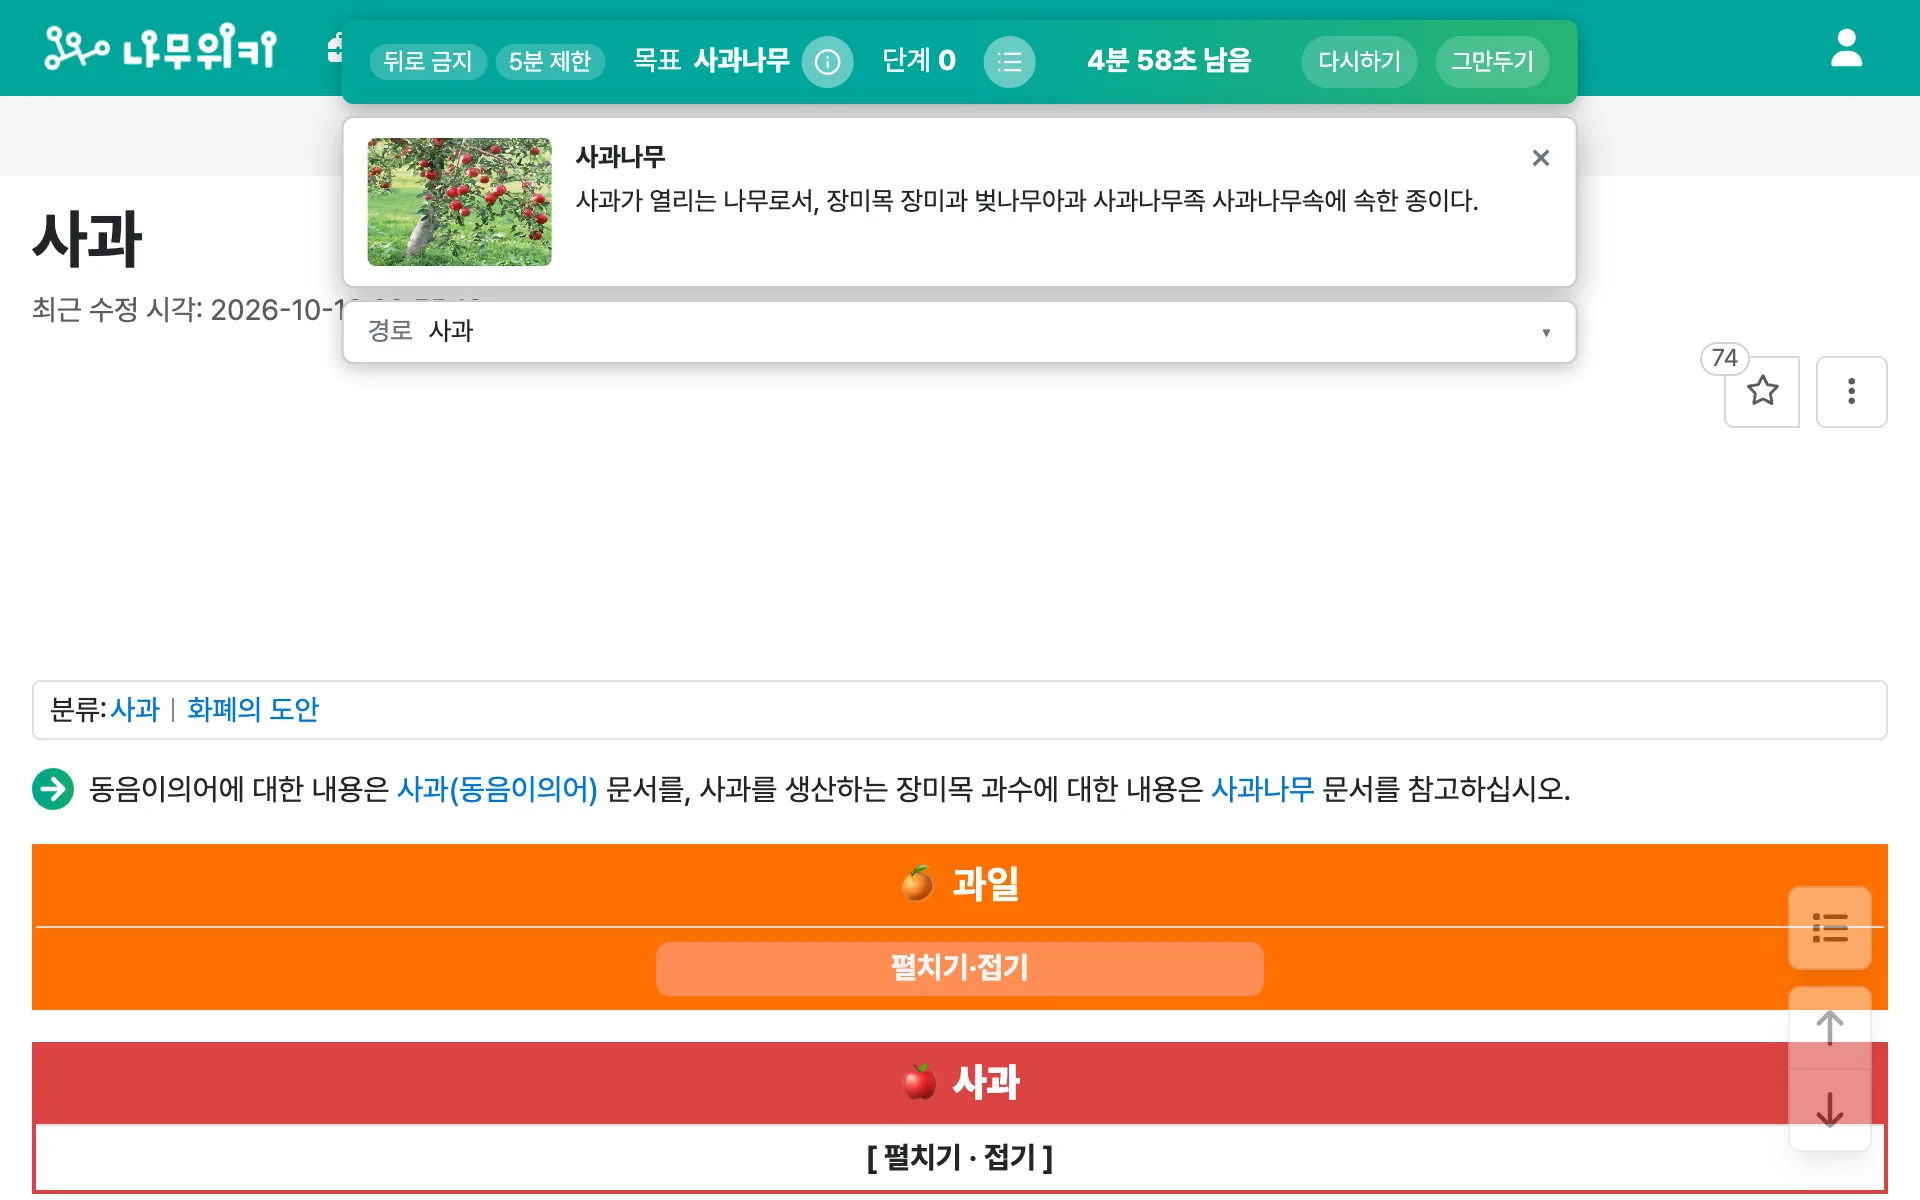
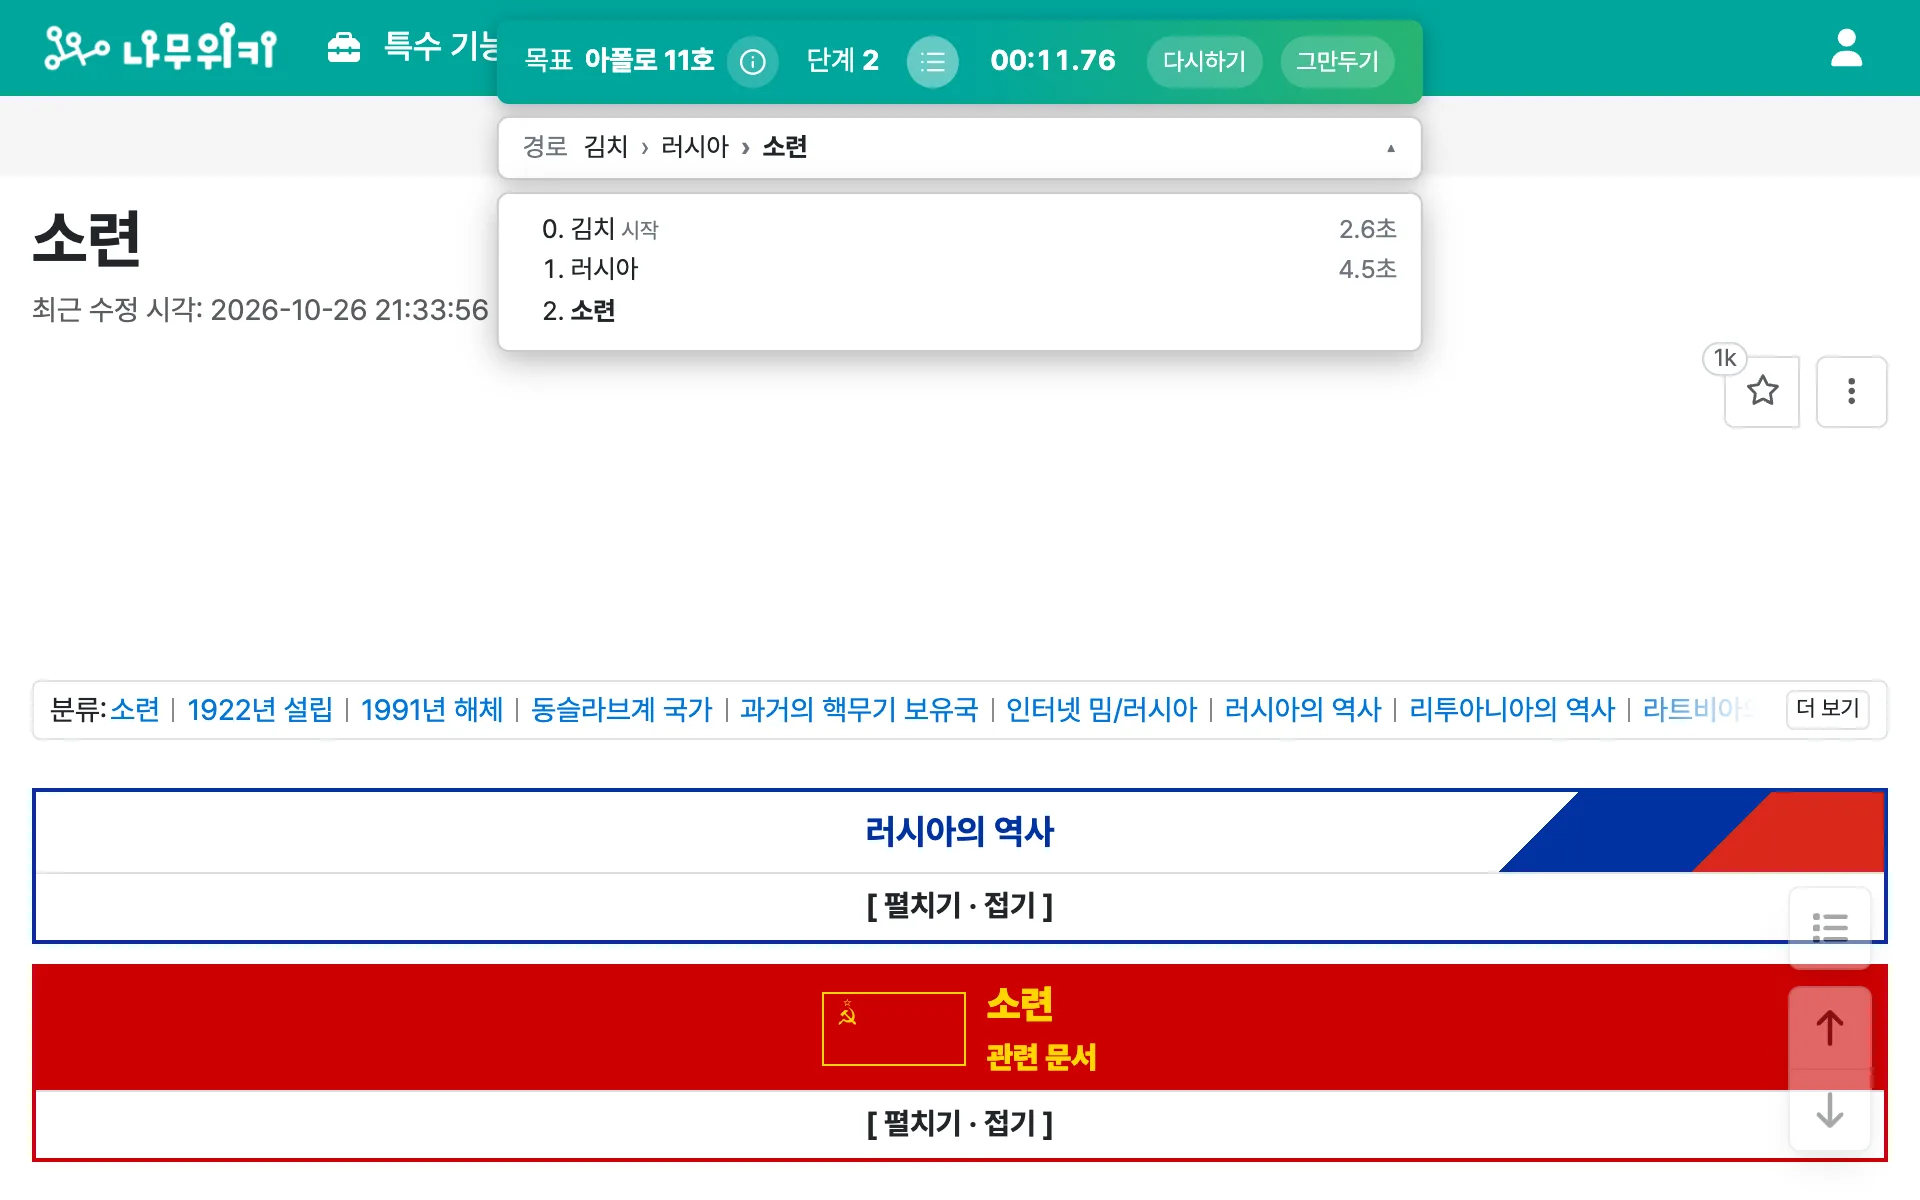
랜딩 사진을 규칙 없는 김치 → 아폴로 11호 판으로 다시 찍음
사진 주소에 ?v=2를 붙여 하루 캐시에 옛 사진이 남지 않게 함

diff --git a/server/public/index.html b/server/public/index.html
@@ -73,7 +73,7 @@
   @media (max-width: 720px) { header img { height: 24.4px; margin-left: -1.6px; } }
   @media (max-width: 520px) { article { padding: 16px; } th { white-space: normal; overflow-wrap: normal; } h1 { font-size: 30px; } .btn.primary { flex: 1; } }
 
-  /* 스크린샷: 다크 모드면 어두운 그림으로(picture). 게임 화면은 960x600으로 찍었다. */
+  /* 스크린샷: 다크 모드면 어두운 그림으로(picture). 게임 화면은 960x600으로 찍었다. 사진은 하루 캐시라 다시 찍으면 ?v=를 올린다(파일 이름을 바꾸면 요청 제한 목록도 고쳐야 한다). */
   figure { margin: 0 0 22.5px; }
   figure img { display: block; width: 100%; height: auto; border: 1px solid var(--cell); box-sizing: border-box; }
   figcaption { margin-top: 6px; font-size: 14.4px; color: var(--sub); }
@@ -99,7 +99,7 @@
 
   <div class="actions" style="margin-bottom: 22.5px"><a class="btn primary go" href="https://chromewebstore.google.com/detail/namutagi/fiadjnefijhjdngbdcaoahcdhkbnckfi">크롬 확장 추가하기</a></div>
 
-  <figure><picture><source media="(prefers-color-scheme: dark)" srcset="shots/play-dark.webp"><img src="shots/play-light.webp" width="960" height="600" alt="게임 중인 나무위키 화면. 위쪽 진행 막대에 목표, 단계, 남은 시간이 보이고 그 밑에 목표 문서 설명이 있다"></picture><figcaption>사과 문서에서 사과나무 문서로 가는 판이에요. 진행 막대에 목표, 단계, 시간이 보여요.</figcaption></figure>
+  <figure><picture><source media="(prefers-color-scheme: dark)" srcset="shots/play-dark.webp?v=2"><img src="shots/play-light.webp?v=2" width="960" height="600" alt="게임 중인 나무위키 화면. 위쪽 진행 막대에 목표, 단계, 시간이 보이고 그 밑에 지나온 경로가 펼쳐져 있다"></picture><figcaption>김치 문서에서 아폴로 11호 문서로 가는 판이에요.<br>진행 막대에 목표, 단계, 시간이 보이고, 지나온 경로도 펼쳐 볼 수 있어요.</figcaption></figure>
 
   <details class="toc" id="toc" open>
     <summary></summary>
@@ -120,8 +120,8 @@
       <tr><th>무작위</th><td>난이도만 고르면 시작과 목표를 대신 정해 줘요.</td></tr>
     </table>
     <div class="pops">
-      <figure><picture><source media="(prefers-color-scheme: dark)" srcset="shots/popup-today-dark.webp"><img src="shots/popup-today-light.webp" loading="lazy" alt="팝업의 오늘의 문제 탭"></picture><figcaption>오늘의 문제</figcaption></figure>
-      <figure><picture><source media="(prefers-color-scheme: dark)" srcset="shots/popup-custom-dark.webp"><img src="shots/popup-custom-light.webp" loading="lazy" alt="팝업의 직접 출제 탭"></picture><figcaption>직접 출제</figcaption></figure>
+      <figure><picture><source media="(prefers-color-scheme: dark)" srcset="shots/popup-today-dark.webp?v=2"><img src="shots/popup-today-light.webp?v=2" loading="lazy" alt="팝업의 오늘의 문제 탭"></picture><figcaption>오늘의 문제</figcaption></figure>
+      <figure><picture><source media="(prefers-color-scheme: dark)" srcset="shots/popup-custom-dark.webp?v=2"><img src="shots/popup-custom-light.webp?v=2" loading="lazy" alt="팝업의 직접 출제 탭"></picture><figcaption>직접 출제</figcaption></figure>
     </div>
     <p>나무위키에서 우클릭해서 지금 문서를 시작이나 목표로 바로 넣을 수도 있어요.</p>
   </div>
@@ -142,15 +142,15 @@
   <div>
     <p>도착하면 내 기록이 담긴 도전장 링크를 만들 수 있어요.<br>받은 친구는 같은 문제, 같은 규칙으로 도전해요.<br>시간이 빠른 쪽이 이기고, 같으면 단계가 적은 쪽이 이겨요.<br>상대의 경로는 이겨야 볼 수 있어요.</p>
     <div class="two">
-      <figure><picture><source media="(prefers-color-scheme: dark)" srcset="shots/invite-dark.webp"><img src="shots/invite-light.webp" width="960" height="600" loading="lazy" alt="도전장 링크를 열면 뜨는 수락 창"></picture><figcaption>도전장을 받으면 어떤 판인지 보고 도전해요.</figcaption></figure>
-      <figure><picture><source media="(prefers-color-scheme: dark)" srcset="shots/win-dark.webp"><img src="shots/win-light.webp" width="960" height="600" loading="lazy" alt="도전장에서 이겼을 때의 결과 카드와 폭죽"></picture><figcaption>이기면 폭죽이 터지고 상대 경로가 열려요.</figcaption></figure>
+      <figure><picture><source media="(prefers-color-scheme: dark)" srcset="shots/invite-dark.webp?v=2"><img src="shots/invite-light.webp?v=2" width="960" height="600" loading="lazy" alt="도전장 링크를 열면 뜨는 수락 창"></picture><figcaption>도전장을 받으면 어떤 판인지 보고 도전해요.</figcaption></figure>
+      <figure><picture><source media="(prefers-color-scheme: dark)" srcset="shots/win-dark.webp?v=2"><img src="shots/win-light.webp?v=2" width="960" height="600" loading="lazy" alt="도전장에서 이겼을 때의 결과 카드와 폭죽"></picture><figcaption>이기면 폭죽이 터지고 상대 경로가 열려요.</figcaption></figure>
     </div>
   </div>
 
   <h2 id="s4"><a href="#toc">4.</a> 내 기록 보기</h2>
   <div>
     <p>도착률, 평균 단계와 시간, 연속 도착을 팝업에서 볼 수 있어요.<br>지난 판의 이동 경로와 문서마다 머문 시간도 남아요.</p>
-    <div class="pops"><figure><picture><source media="(prefers-color-scheme: dark)" srcset="shots/popup-records-dark.webp"><img src="shots/popup-records-light.webp" loading="lazy" alt="팝업의 기록 화면. 도착률과 연속 도착, 최근 판이 보인다"></picture><figcaption>기록 화면(예시)</figcaption></figure></div>
+    <div class="pops"><figure><picture><source media="(prefers-color-scheme: dark)" srcset="shots/popup-records-dark.webp?v=2"><img src="shots/popup-records-light.webp?v=2" loading="lazy" alt="팝업의 기록 화면. 도착률과 연속 도착, 최근 판이 보인다"></picture><figcaption>기록 화면(예시)</figcaption></figure></div>
   </div>
 
   <h2 id="s5"><a href="#toc">5.</a> 계정 없이 바로 시작해요</h2>

diff --git a/CLAUDE.md b/CLAUDE.md
@@ -15,7 +15,7 @@ git 저장소: GitHub `L4N14KE4/namu-tagi`(비공개, 2026-10-29에 namu-game에
 
 ## 남은 일 (2026-10-29 대화를 마치며)
 
-main은 2026-11-02에 푸시됨. 서버는 namutagi.com에 배포돼 동작 중(버전 2e7ad5ba, 랜딩 페이지까지).
+main은 2026-11-02에 푸시됨. 서버는 namutagi.com에 배포돼 동작 중(버전 2dc1404f, 랜딩 페이지까지).
 
 - **v0.1.0 릴리스**: 2026-11-02에 태그와 zip을 `8aee6be`로 옮겼다(웹 환영 페이지, 글꼴까지). 이 뒤에 `extension/`을 바꾸면 다시 낡는다. 다시 맞추려면 `git archive --format=zip -o dist/namu-tagi-v0.1.0.zip HEAD:extension`, `git tag -f v0.1.0 HEAD && git push -f origin v0.1.0`, `gh release upload v0.1.0 dist/namu-tagi-v0.1.0.zip --clobber`. 릴리스 설명은 처음 0.1.0 그대로 둔다. 태그 강제 푸시는 Claude Code 자동 승인이 막으니 사용자가 직접 돌린다.
 - **사용자 확인 대기**: 미리보기 카드는 글자는 뜨는 것을 사용자가 확인했고, 그림(og:image)을 넣었다. 새 도전장 링크로 카카오톡, 디스코드에 그림이 뜨는지.
